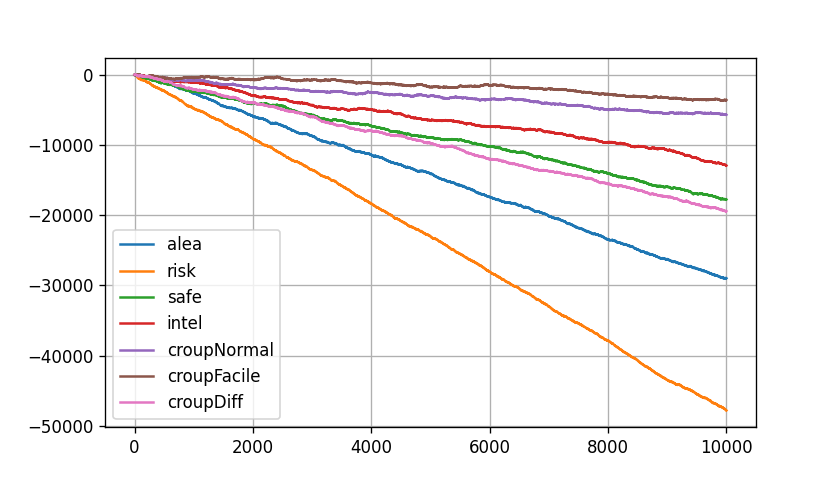
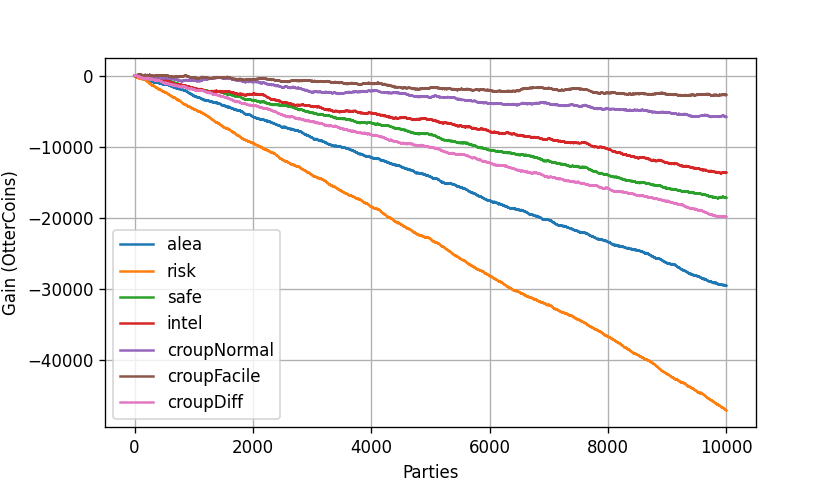
new graphs

diff --git a/main.py b/main.py
@@ -77,23 +77,25 @@ sub1 = fig1.add_subplot(1,1,1)
 for i in range(len(gains)):
     sub1.plot(gains[i],label=str(GDict['joueurs'][i]['nom']))
 sub1.legend()
+plt.xlabel('Parties')
+plt.ylabel('Gain (OtterCoins)')
 sub1.grid(True)
 
-fig1.savefig('GainGraph.png')
+plt.savefig('GainGraph.png')
+
 
 fig2 = plt.figure(dpi=120,figsize=(7,4))
 fig2.patch.set_facecolor('white')
-plt.subplots_adjust(bottom=0.15)
+plt.subplots_adjust(bottom=0.2)
 vic = []
-lose = []
 nom = []
 for i in GDict['victoires']:
     nom.append(i)
-    vic.append(GDict['victoires'][i])
-    lose.append(nbIter - GDict['victoires'][i])
-
+    vic.append((GDict['victoires'][i]/nbIter)*100)
 plt.bar(nom,vic,0.7)
 plt.xticks(rotation='20')
+plt.xlabel('Stratégies')
+plt.ylabel('Pourcentage de victoires')
 plt.grid(True,'both','y')
 
 plt.savefig('WinStrat.png')
